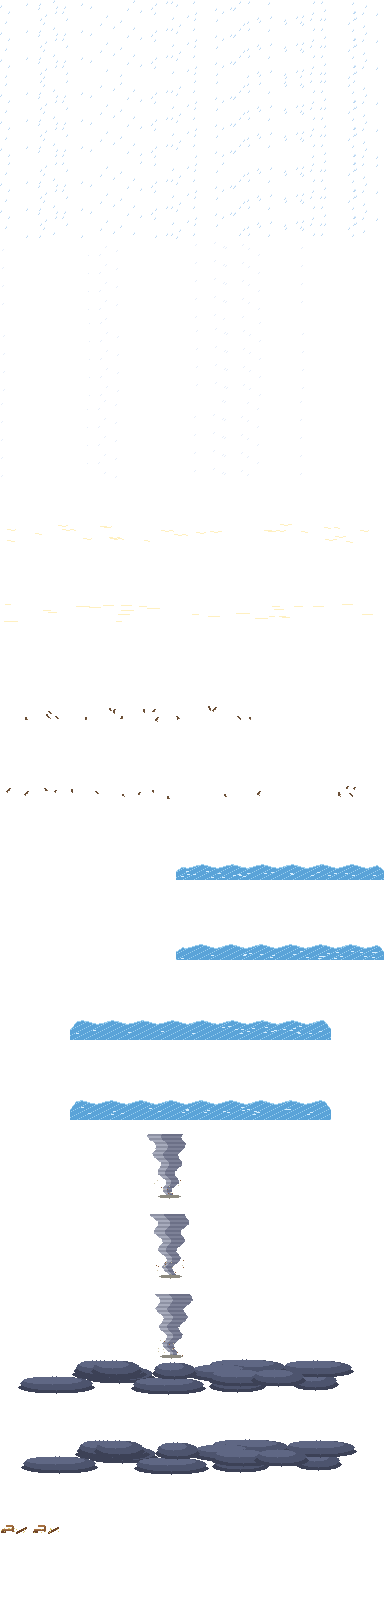
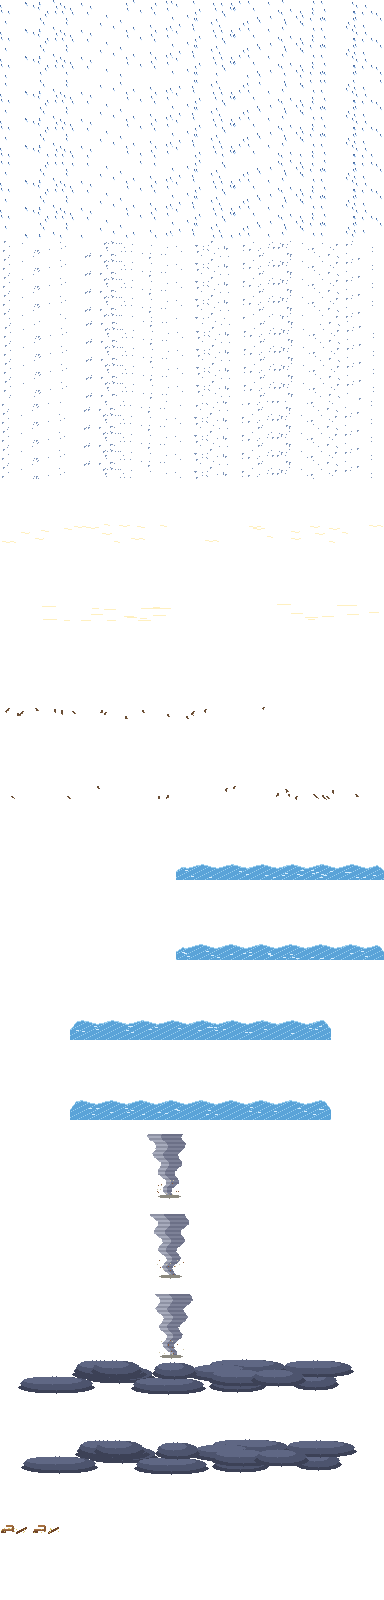
Keep rain and snow over the land in strip and corner mode
Without a sky there is nothing for precipitation to fall from, so a shader
now hides it above the land's top edge (read from the skyline) and the
streaks and flakes are higher contrast so they show on green, stone and snow.

Copilot-Session: 1cec6dd8-fa6f-4c76-9a96-bfa8a8f5c174

Changed region(s): [[0.9062, 0.0, 0.9375, 0.125]]

diff --git a/tools/art/weather.js b/tools/art/weather.js
@@ -13,23 +13,27 @@ var IMG = SPR.layer(0).cel(0).image;
 var S = new Buf(384, 1600), i, j, k, x, y;
 function row(r) { return r * 80; }
 
-// ---- rain: streaks that fall 9 pixels a frame and repeat every 27, so three frames loop ----
+// ---- rain: streaks that fall 9 pixels a frame and repeat every 27, so three frames loop. Each is
+// four pixels, dark at the tail and white at the head, so it reads over green, stone and snow ----
 var streaks = [];
-for (i = 0; i < 74; i++) streaks.push([Math.floor(rnd() * 384), Math.floor(rnd() * 27)]);
+for (i = 0; i < 110; i++) streaks.push([Math.floor(rnd() * 384), Math.floor(rnd() * 27)]);
 for (k = 0; k < 3; k++) for (i = 0; i < streaks.length; i++) for (j = 0; j < 3; j++) {
   x = streaks[i][0]; y = (streaks[i][1] + 9 * k) % 27 + 27 * j;
-  if (y > 76) continue;
-  S.px(x, row(k) + y, '#e4f2ff'); S.px(x, row(k) + y + 1, '#bcd8f2'); S.px(x - 1, row(k) + y + 2, '#bcd8f2');
+  if (y > 75) continue;
+  S.px(x - 1, row(k) + y, '#4a6a9c'); S.px(x - 1, row(k) + y + 1, '#5f86bf');
+  S.px(x, row(k) + y + 2, '#a9c9ee'); S.px(x, row(k) + y + 3, '#f4faff');
 }
 
-// ---- snow: flakes that fall 6 pixels a frame (period 18) and sway ----
+// ---- snow: flakes that fall 6 pixels a frame (period 18) and sway; each has a cool shadow pixel
+// so it shows on pale ground ----
 var flakes = [];
-for (i = 0; i < 90; i++) flakes.push([Math.floor(rnd() * 384), Math.floor(rnd() * 18), rnd() < 0.18]);
+for (i = 0; i < 110; i++) flakes.push([Math.floor(rnd() * 384), Math.floor(rnd() * 18), rnd() < 0.3]);
 for (k = 0; k < 3; k++) for (i = 0; i < flakes.length; i++) for (j = 0; j < 5; j++) {
   x = flakes[i][0] + (k == 1 ? 1 : (k == 2 ? -1 : 0)); y = (flakes[i][1] + 6 * k) % 18 + 18 * j;
-  if (y > 78) continue;
+  if (y > 77) continue;
+  S.px(x + 1, row(3 + k) + y + 1, '#7f95b8');
   S.px(x, row(3 + k) + y, '#ffffff');
-  if (flakes[i][2]) { S.px(x + 1, row(3 + k) + y, '#e6eefa'); S.px(x, row(3 + k) + y + 1, '#e6eefa'); }
+  if (flakes[i][2]) { S.px(x + 1, row(3 + k) + y, '#ffffff'); S.px(x, row(3 + k) + y + 1, '#ffffff'); S.px(x + 2, row(3 + k) + y + 1, '#7f95b8'); S.px(x + 1, row(3 + k) + y + 2, '#7f95b8'); }
 }
 
 // ---- heat shimmer: pale wavering dashes just above the ground ----
